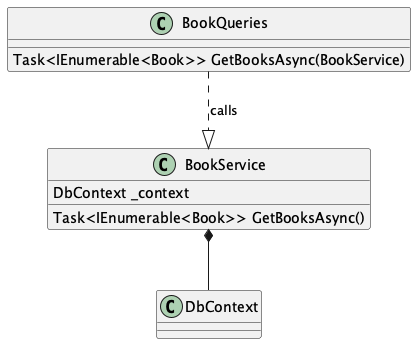
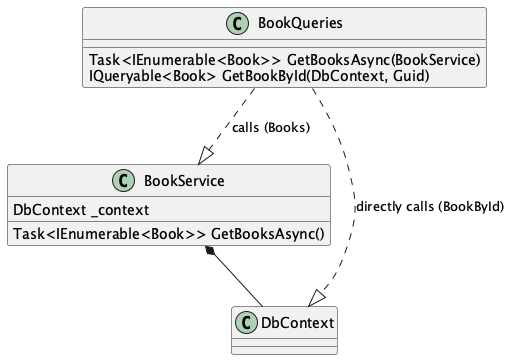
feat(scoped): try out different injection patterns

diff --git a/HotChocolateSandbox.AddDbContext/Types/Query/BookQueries.cs b/HotChocolateSandbox.AddDbContext/Types/Query/BookQueries.cs
@@ -1,5 +1,7 @@
+using HotChocolateSandbox.AddDbContext.Data;
 using HotChocolateSandbox.AddDbContext.Service;
 using HotChocolateSandbox.Data.Model;
+using Microsoft.EntityFrameworkCore.Infrastructure;
 
 namespace HotChocolateSandbox.AddDbContext.Types.Query;
 
@@ -8,4 +10,8 @@ public static class BookQueries
 {
     public static async Task<IEnumerable<Book>> GetBooksAsync([Service] BookService bookService)
         => await bookService.GetBooksAsync();
+    
+    [UseFirstOrDefault]
+    public static IQueryable<Book?> GetBookById(HotChocolateSandboxDbContext context, Guid id)
+        => context.Books.Where(b => b.Id == id);
 }

diff --git a/README.md b/README.md
@@ -38,3 +38,6 @@ However, this can be solved by setting the `ServiceKind.Synchronized` as is show
 Normally, one would suggest, that setting this kind globally using the `IRequestExecutorBuilder.RegisterDbContext` method would solve this problem globally. This is not the case!
 
 ![Architecture Diagram](diagrams/architecture.png)
+
+As you can see, `GetBooksAsync` injects the `BookService` which is not Synchronized because only the DbContext is synchronized. Two simultaneous calls to the books resolver lead to the same exception.
+But `GetBookById` directly injects the `DbContext` which is defined globally as Synchronized so it doesn't throw the same exception.
